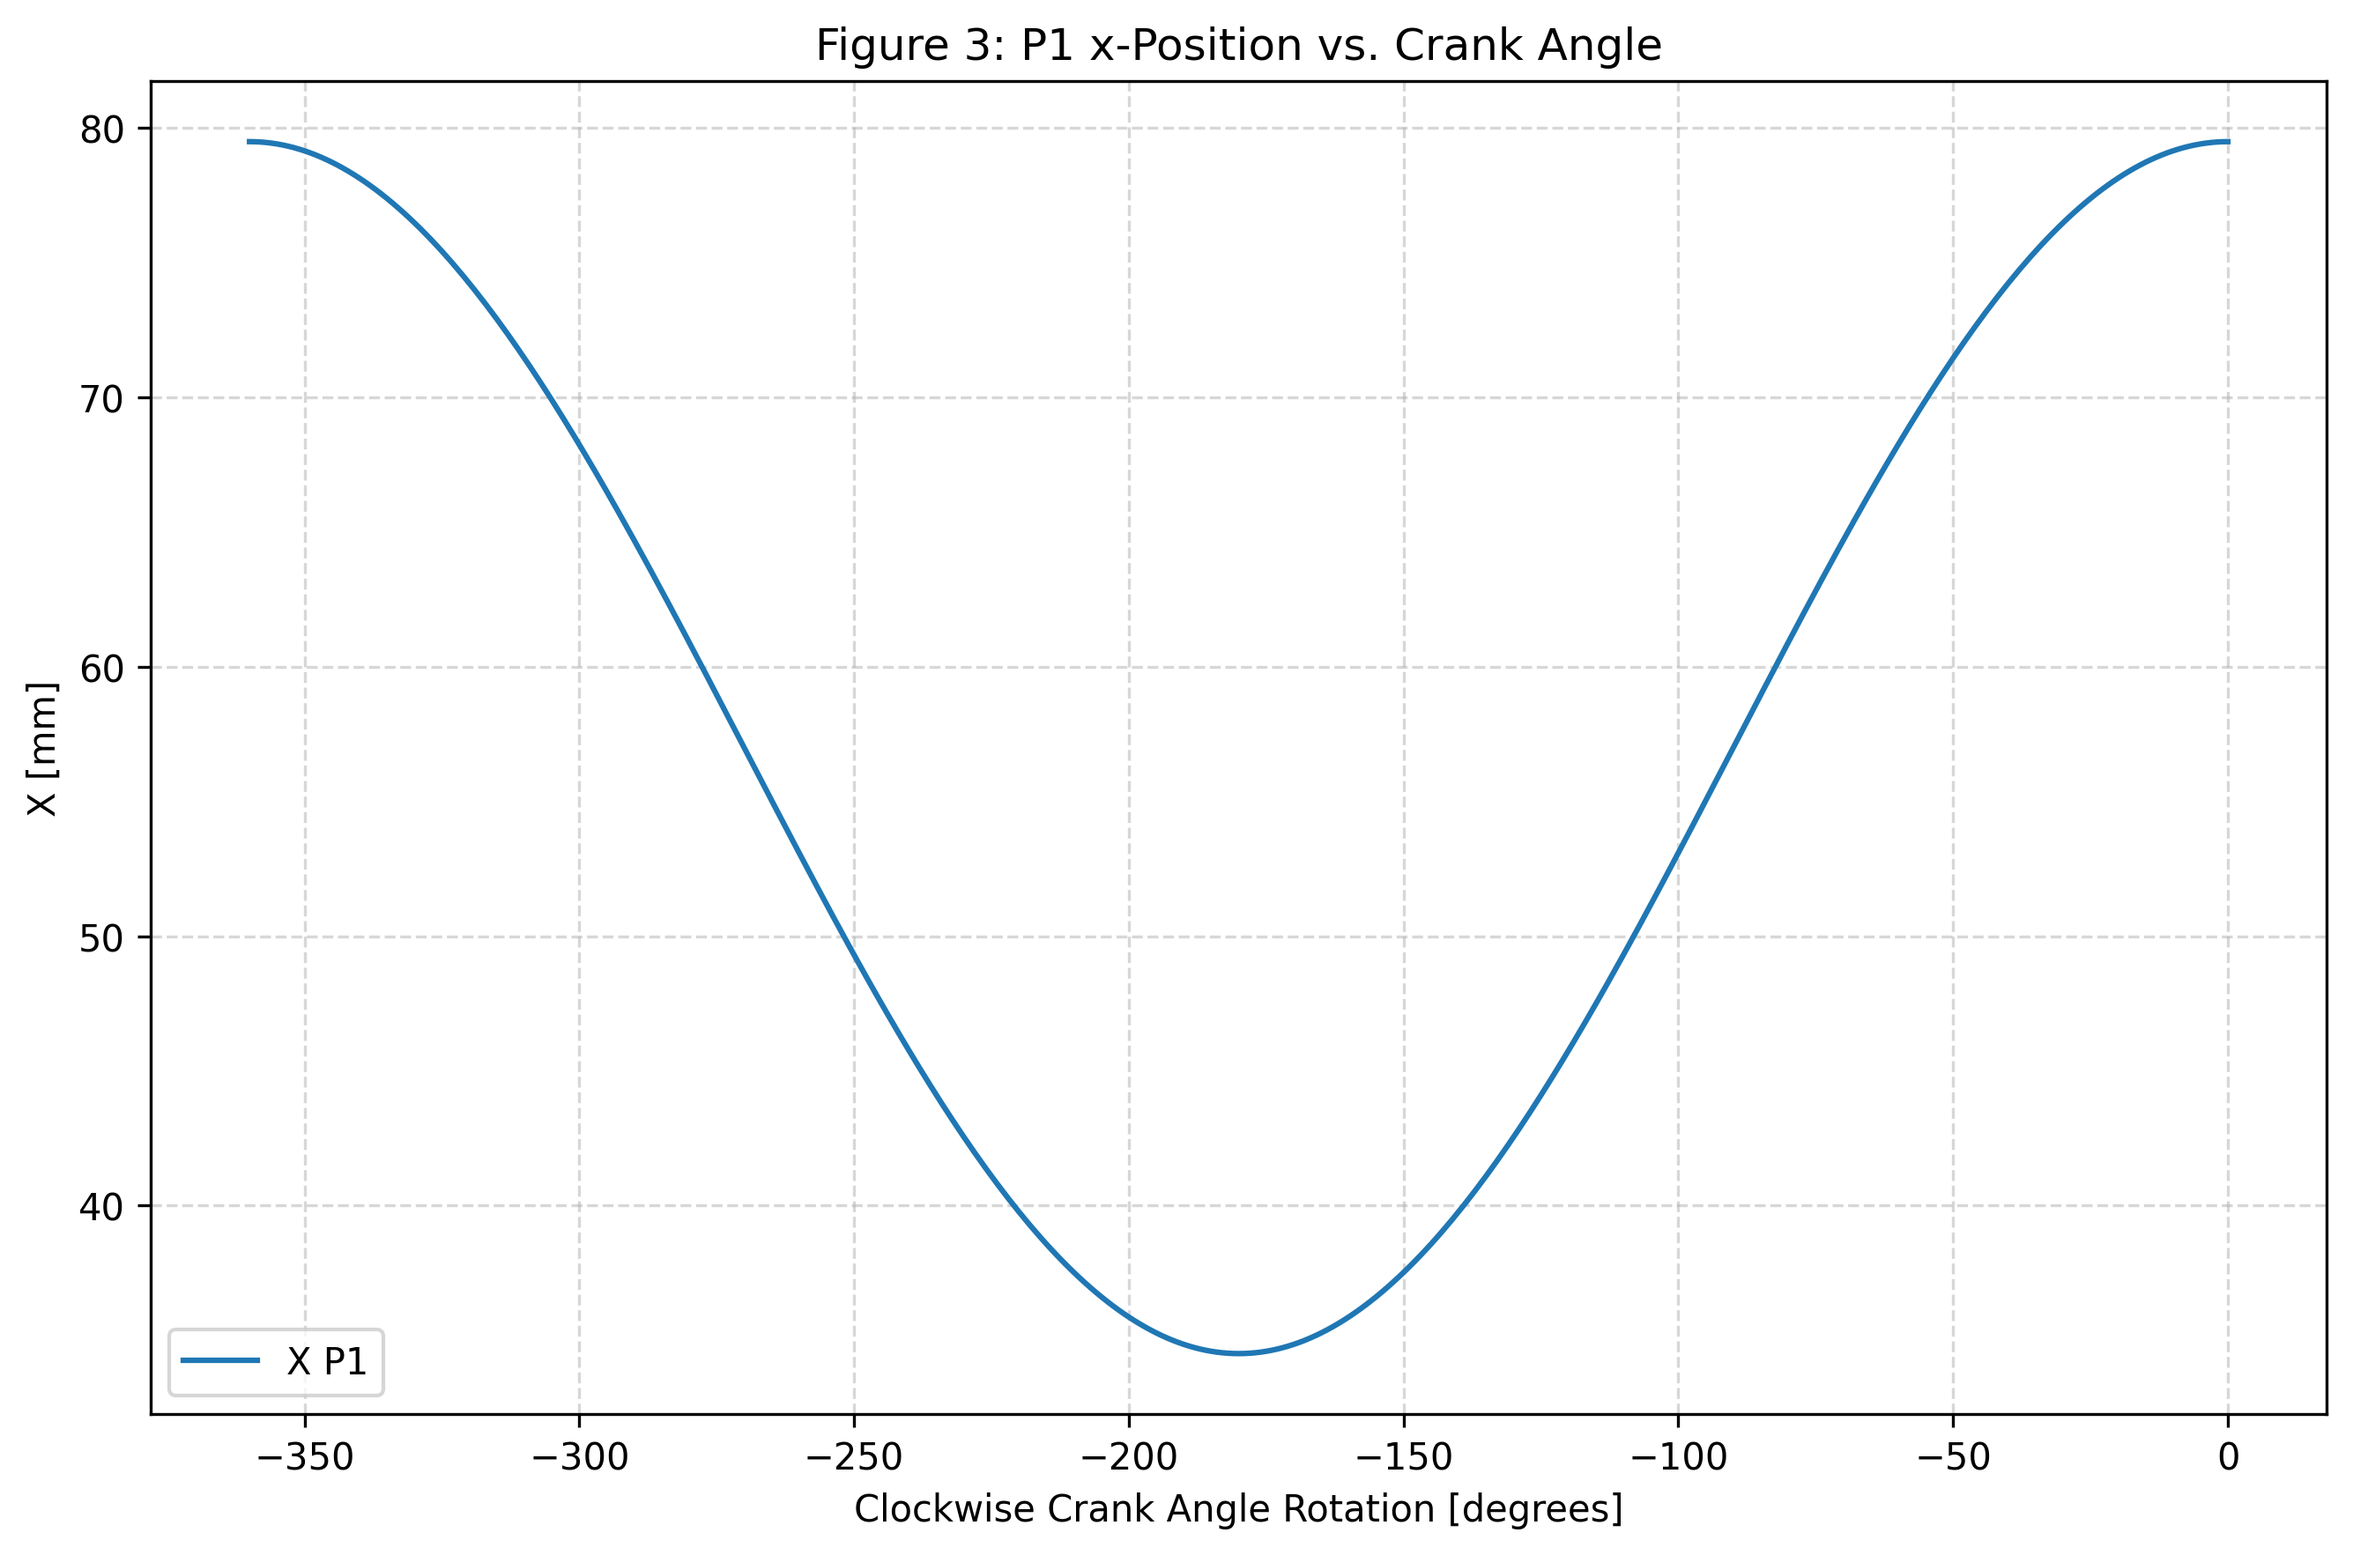
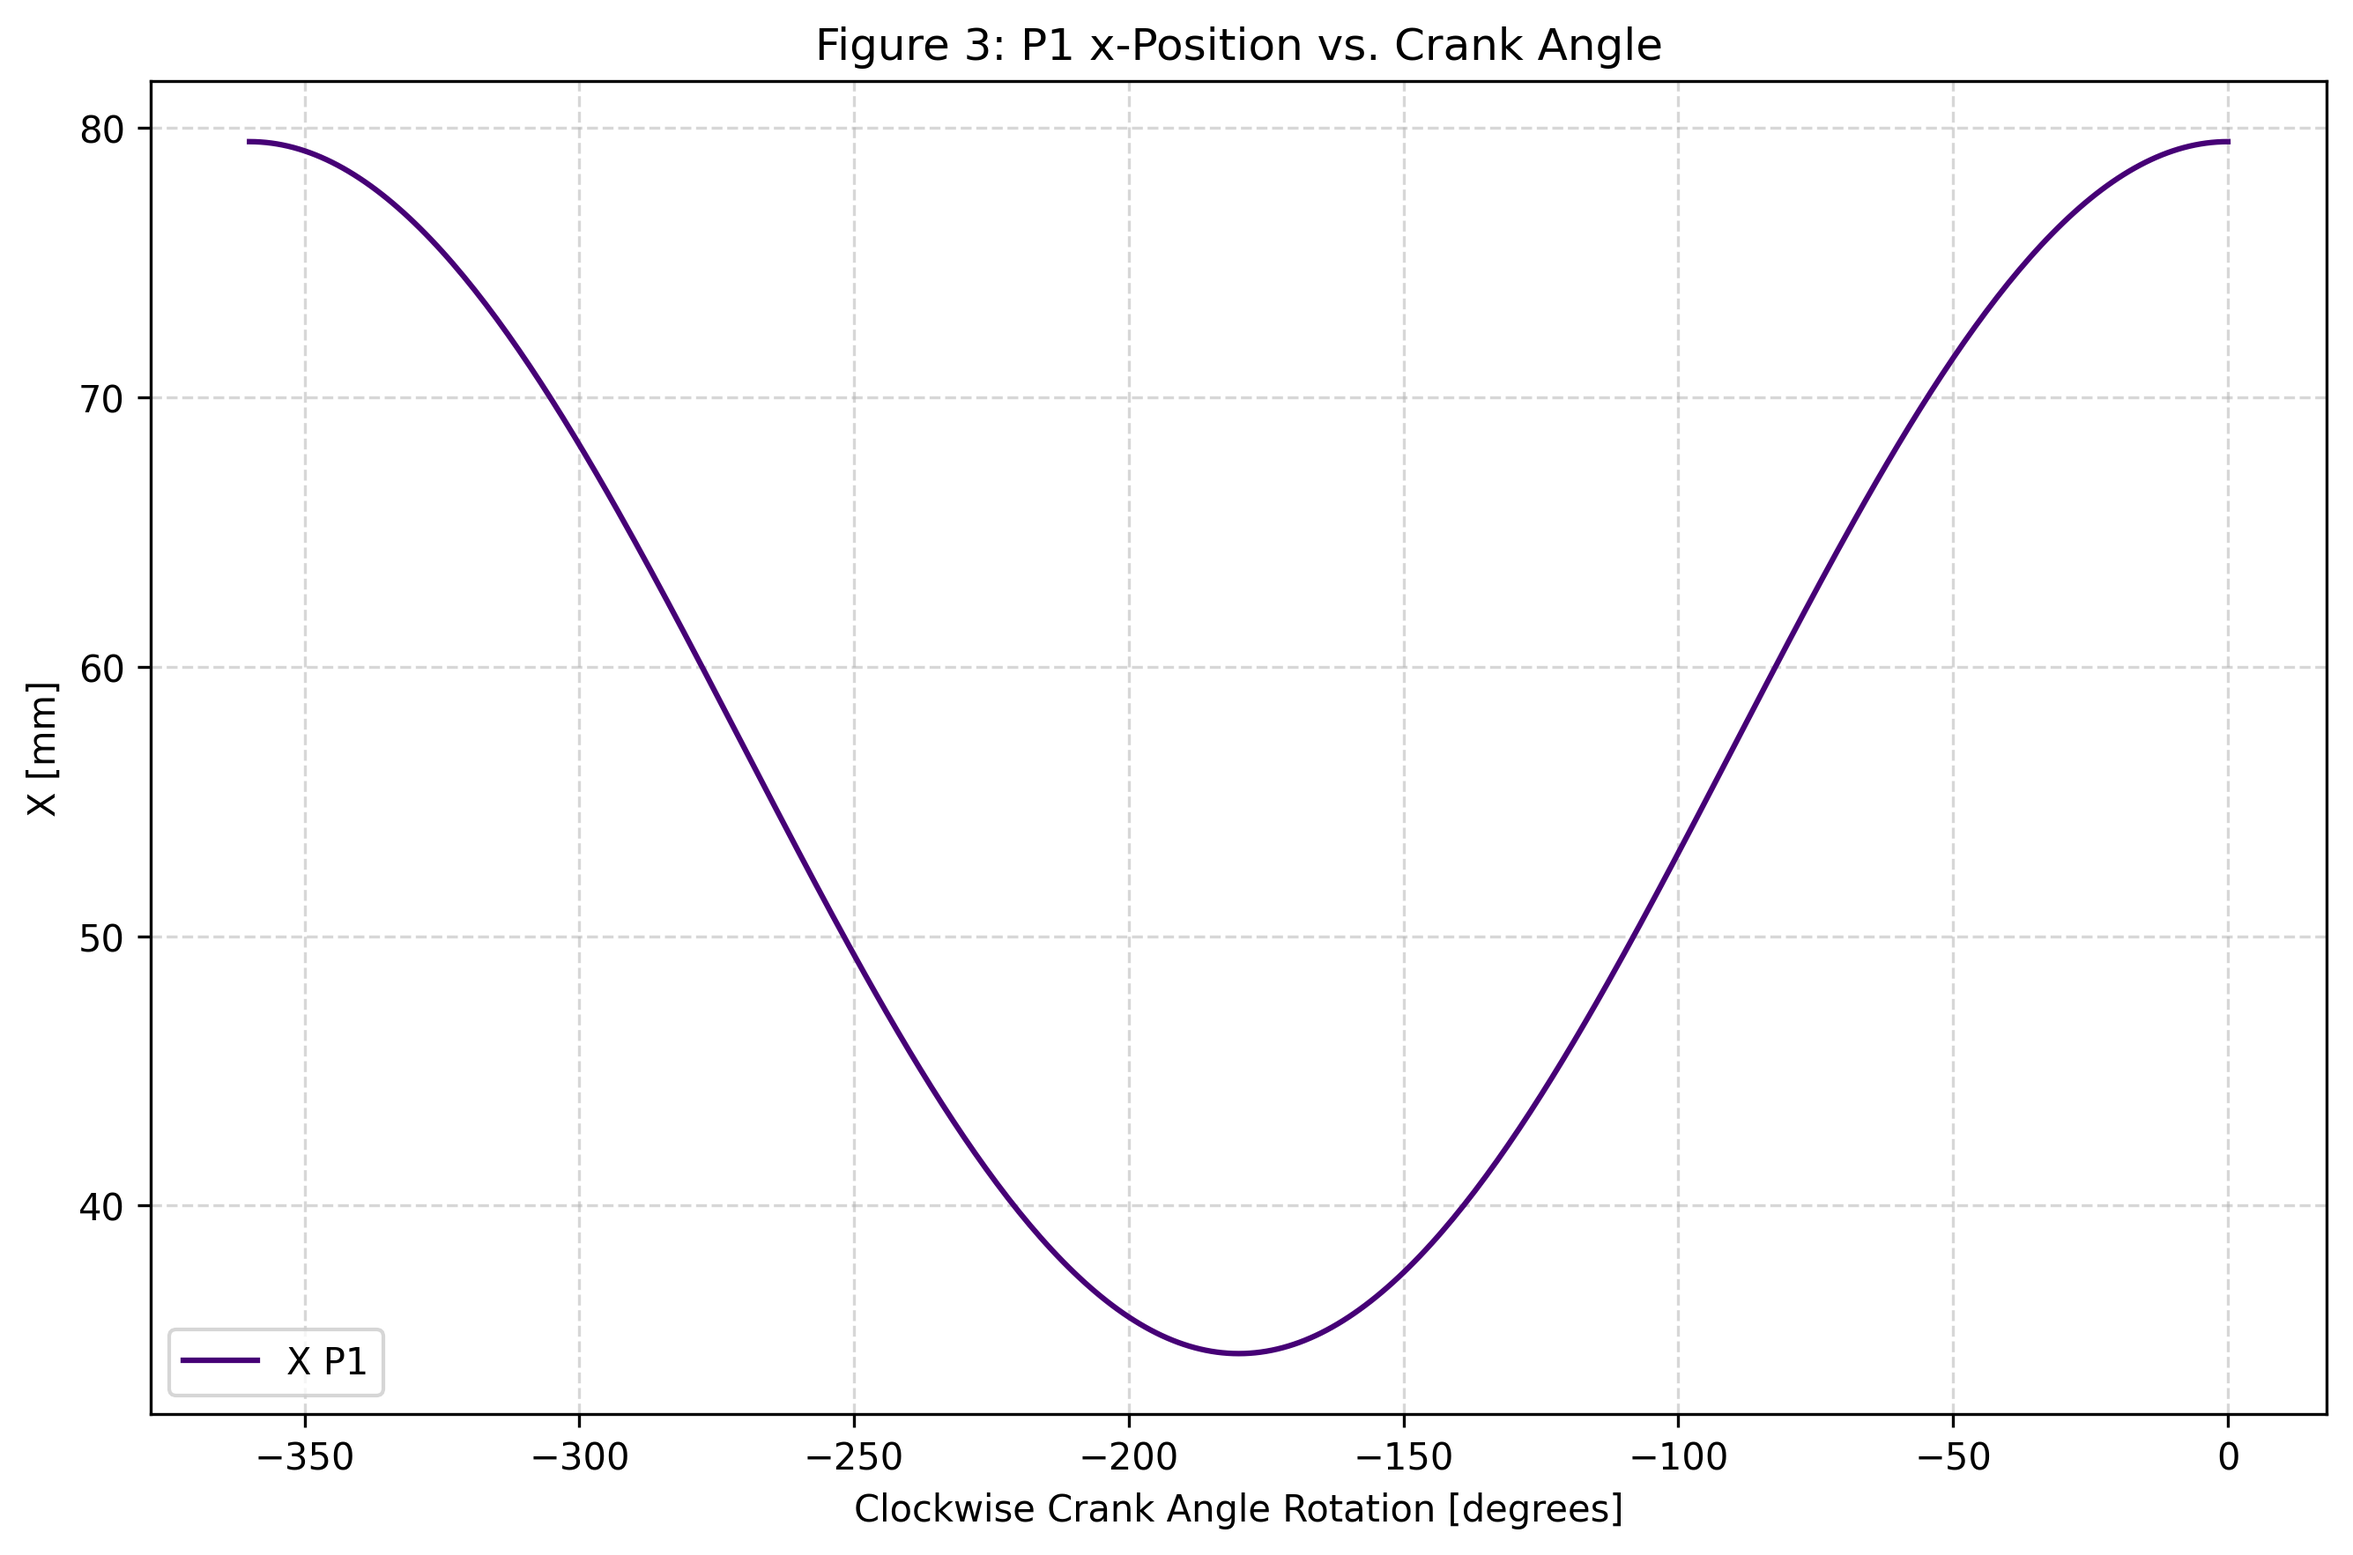
Updated point and link plot so that it can handle line style, offset, and line width

diff --git a/lib/_Plot.py b/lib/_Plot.py
@@ -23,6 +23,30 @@ import matplotlib.pyplot as pl
 # * VARIABLES *
 # ? ================================================================ ?
 
+# * Color Scheme *
+# Path Color
+PATH_COLOR = "#460076"  
+
+# Link Colors
+LINK_B_COLOR = "#E76F51"
+LINK_C_COLOR = "#C77DFF"
+LINK_D_COLOR = "#FFD166"
+LINK_E_COLOR = "#B8C0FF"
+LINK_F_COLOR = "#D16D9E"
+LINK_G_COLOR = "#7B6DCC"
+LINK_H_COLOR = "#7A8FB5"
+LINK_I_COLOR = "#BC6C25"
+LINK_J_COLOR = "#577590"
+LINK_K_COLOR = "#84A59D"
+LINK_M_COLOR = "#F4A261"
+LINK_N_COLOR = "#48CAE4"
+
+# Point Colors
+POINT_COLOR = "#000000"  
+
+# * Link N Line Style *
+LINK_N_LINE_STYLE = '--'  
+
 
 # * FUNCTION *
 # ? ================================================================ ?
@@ -51,7 +75,7 @@ def setup_figure() -> tuple[pl.figure, pl.axes]:
     return figure, axes
 
 
-def draw_point(axes : pl.axes, point : np.ndarray, label : str) -> None:
+def draw_point(axes : pl.axes, point : np.ndarray, label : str, x_offset : float = 6.0, y_offset : float = 6.0) -> None:
     """
     Draw & Label a point on the given axes.
     
@@ -59,18 +83,22 @@ def draw_point(axes : pl.axes, point : np.ndarray, label : str) -> None:
         axes (pl.axes) : The Matplotlib axes to draw the point on.
         point (np.ndarray) : The (x, y) coordinates of the point to be drawn.
         label (str) : The label for the point to be displayed next to it on the plot.
+        x_offset (float) : The horizontal offset for the label text from the point. Default is 6.0 mm.
+        y_offset (float) : The vertical offset for the label text from the point. Default is 6.0 mm.
     
     Returns:
         None
     """
     # Draw the point
-    axes.plot(point[0], point[1], 'ko', zorder=5)  
+    axes.plot(point[0], point[1], 'o', color=POINT_COLOR, zorder=5)  
     
     # Label the point
-    axes.text(point[0], point[1], f" {label}", fontsize=10)
+    axes.annotate(label, xy=(point[0], point[1]), xytext=(x_offset, y_offset), textcoords='offset points', fontsize=10, 
+                  color=POINT_COLOR, bbox=dict(facecolor='white', edgecolor='none', alpha=0.7, pad=0.2))
 
 
-def draw_link(axes : pl.axes, point_1 : np.ndarray, point_2 : np.ndarray, label : str, color : str) -> None:
+def draw_link(axes : pl.axes, point_1 : np.ndarray, point_2 : np.ndarray, label : str, 
+              color : str, linestyle : str = '-', linewidth : float = 2.0) -> None:
     """
     Draw a link between two points on the given axes.
     
@@ -80,12 +108,15 @@ def draw_link(axes : pl.axes, point_1 : np.ndarray, point_2 : np.ndarray, label 
         point_2 (np.ndarray) : The (x, y) coordinates of the second point.
         label (str) : The label for the link to be displayed next to it on the plot.
         color (str) : The color to use for the link (e.g., 'blue', 'red', etc.).
+        line_style (str) : The style of the line (e.g., '-', '--', '-.', ':'). Default is '-'.
+        linewidth (float) : The width of the line. Default is 2.0.
     
     Returns:
         None
     """
     # Plot the link as a line between the two points
-    axes.plot([point_1[0], point_2[0]], [point_1[1], point_2[1]], marker='o', color=color, label=label)
+    axes.plot([point_1[0], point_2[0]], [point_1[1], point_2[1]], marker='o', color=color, 
+              label=label, linestyle=linestyle, linewidth=linewidth)
 
 
 def set_axes_limits(axes : pl.axes, points : list[np.ndarray], padding : float = 10.0) -> None:
@@ -132,13 +163,13 @@ def plot_ground_link(O2 : np.ndarray, O4 : np.ndarray, P1 : np.ndarray) -> pl.fi
     ground_axes.set_ylabel("Y [mm]")
     
     # Draw Links
-    draw_link(ground_axes, O2, O4, "Link N", color = "blue")
-    draw_link(ground_axes, O4, P1, "Link M", color = "orange")
+    draw_link(ground_axes, O2, O4, "Link N", LINK_N_COLOR,  linestyle=LINK_N_LINE_STYLE)
+    draw_link(ground_axes, O4, P1, "Link M", LINK_M_COLOR)
 
     # Draw Points
-    draw_point(ground_axes, O2, "02")
-    draw_point(ground_axes, O4, "04")
-    draw_point(ground_axes, P1, "P1")
+    draw_point(ground_axes, O2, "02", x_offset=-8.0, y_offset=-16.0)
+    draw_point(ground_axes, O4, "04", x_offset=-4.0, y_offset=-16.0)
+    draw_point(ground_axes, P1, "P1", x_offset=-4.0, y_offset=-16.0)
     
     # Set axes limits based on point locations
     set_axes_limits(ground_axes, [O2, O4, P1], padding=15.0)
@@ -178,11 +209,11 @@ def plot_p1_position(O2 : np.ndarray, O4 : np.ndarray, array_P1 : np.ndarray) ->
     draw_point(p1_position_axes, O4, "04")
     
     # Draw Crank Path
-    p1_position_axes.plot(array_P1[:, 0], array_P1[:, 1], label="Path P1", color="purple")
+    p1_position_axes.plot(array_P1[:, 0], array_P1[:, 1], label="Path P1", color=PATH_COLOR)
     
     # Draw starting crank position
-    draw_link(p1_position_axes, O2, O4, "Link N", color = "cyan")
-    draw_link(p1_position_axes, O4, array_P1[0], "Link M", color = "orange")
+    draw_link(p1_position_axes, O2, O4, "Link N", LINK_N_COLOR, LINK_N_LINE_STYLE)
+    draw_link(p1_position_axes, O4, array_P1[0], "Link M", LINK_M_COLOR)
     
     # Set axes limits based on point locations
     set_axes_limits(p1_position_axes, [O2, O4, *array_P1], padding=15.0)
@@ -217,7 +248,7 @@ def plot_p1_x_figure(theta_m : np.ndarray, array_P1 : np.ndarray) -> pl.figure:
     p1_x_axes.set_ylabel("X [mm]")
     
     # Plot X-coordinate of P1
-    p1_x_axes.plot(theta_m, array_P1[:, 0], label="X P1")
+    p1_x_axes.plot(theta_m, array_P1[:, 0], label="X P1", color=PATH_COLOR)
     
     # Create Legend
     p1_x_axes.legend(loc = 'best')
@@ -251,7 +282,7 @@ def plot_p1_y_figure(theta_m : np.ndarray, array_P1 : np.ndarray) -> pl.figure:
     p1_y_axes.set_ylabel("Y [mm]")
     
     # Plot Y-coordinate of P1
-    p1_y_axes.plot(theta_m, array_P1[:, 1], label="Y P1")
+    p1_y_axes.plot(theta_m, array_P1[:, 1], label="Y P1", color=PATH_COLOR)
     
     # Create Legend & Layout
     p1_y_axes.legend(loc = 'best')
@@ -285,16 +316,16 @@ def plot_nm_bj_figure(O2 : np.ndarray, O4 : np.ndarray, P1 : np.ndarray, P2 : np
     nm_bj_axes.set_ylabel("Y [mm]")
     
     # Draw Links
-    draw_link(nm_bj_axes, O2, O4, "Link N", color = "blue")
-    draw_link(nm_bj_axes, O4, P1, "Link M", color = "orange")
-    draw_link(nm_bj_axes, O2, P2, "Link B", color = "green")
-    draw_link(nm_bj_axes, P1, P2, "Link J", color = "red")
+    draw_link(nm_bj_axes, O2, O4, "Link N", color = LINK_N_COLOR, linestyle=LINK_N_LINE_STYLE)
+    draw_link(nm_bj_axes, O4, P1, "Link M", color = LINK_M_COLOR)
+    draw_link(nm_bj_axes, O2, P2, "Link B", color = LINK_B_COLOR)
+    draw_link(nm_bj_axes, P1, P2, "Link J", color = LINK_J_COLOR)
     
     # Draw Points
-    draw_point(nm_bj_axes, O2, "02")
-    draw_point(nm_bj_axes, O4, "04")
-    draw_point(nm_bj_axes, P1, "P1")
-    draw_point(nm_bj_axes, P2, "P2")
+    draw_point(nm_bj_axes, O2, "02", x_offset=-8.0, y_offset=-16.0)
+    draw_point(nm_bj_axes, O4, "04", x_offset=-4.0, y_offset=-16.0)
+    draw_point(nm_bj_axes, P1, "P1", x_offset=-4.0, y_offset=-16.0)
+    draw_point(nm_bj_axes, P2, "P2", x_offset=-4.0, y_offset=8.0)
     
     # Set axes limits based on point locations
     set_axes_limits(nm_bj_axes, [O2, O4, P1, P2], padding=15.0)
@@ -331,20 +362,20 @@ def plot_p2_position(O2 : np.ndarray, O4 : np.ndarray, array_P1 : np.ndarray, ar
     p2_position_axes.set_ylabel("Y [mm]")
     
     # Draw Path of P2
-    p2_position_axes.plot(array_P2[:, 0], array_P2[:, 1], label="Path P2", color="purple")
+    p2_position_axes.plot(array_P2[:, 0], array_P2[:, 1], label="Path P2", color=PATH_COLOR)
     
     # Draw starting crank position
-    draw_link(p2_position_axes, O2, O4, "Link N", color = "cyan")
-    draw_link(p2_position_axes, O4, array_P1[0], "Link M", color = "orange")
-    draw_link(p2_position_axes, array_P1[0], array_P2[0], "Link J", color = "magenta")
-    draw_link(p2_position_axes, O2, array_P2[0], "Link B", color = "green")
+    draw_link(p2_position_axes, O2, O4, "Link N", color = LINK_N_COLOR,  linestyle=LINK_N_LINE_STYLE)
+    draw_link(p2_position_axes, O4, array_P1[0], "Link M", color = LINK_M_COLOR)
+    draw_link(p2_position_axes, array_P1[0], array_P2[0], "Link J", color = LINK_J_COLOR)
+    draw_link(p2_position_axes, O2, array_P2[0], "Link B", color = LINK_B_COLOR)
 
     
     # Draw ground point and crank center
-    draw_point(p2_position_axes, O2, "02")
-    draw_point(p2_position_axes, O4, "04")
-    draw_point(p2_position_axes, array_P1[0], "P1")
-    draw_point(p2_position_axes, array_P2[0], "P2")
+    draw_point(p2_position_axes, O2, "02", x_offset=-8.0, y_offset=-16.0)
+    draw_point(p2_position_axes, O4, "04", x_offset=-4.0, y_offset=-16.0)
+    draw_point(p2_position_axes, array_P1[0], "P1", x_offset=-4.0, y_offset=-16.0)
+    draw_point(p2_position_axes, array_P2[0], "P2", x_offset=-4.0, y_offset=8.0)
     
     # Set axes limits based on point locations
     set_axes_limits(p2_position_axes, [O2, O4, *array_P1, *array_P2], padding=15.0)
@@ -379,7 +410,7 @@ def plot_p2_x_figure(theta_m : np.ndarray, array_P2 : np.ndarray) -> pl.figure:
     p2_x_axes.set_ylabel("X [mm]")
     
     # Plot X-coordinate of P2
-    p2_x_axes.plot(theta_m, array_P2[:, 0], label="X P2")
+    p2_x_axes.plot(theta_m, array_P2[:, 0], label="X P2", color=PATH_COLOR)
     
     # Create Legend & Layout
     p2_x_axes.legend(loc = 'best')
@@ -411,7 +442,7 @@ def plot_p2_y_figure(theta_m : np.ndarray, array_P2 : np.ndarray) -> pl.figure:
     p2_y_axes.set_ylabel("Y [mm]")
     
     # Plot Y-coordinate of P2
-    p2_y_axes.plot(theta_m, array_P2[:, 1], label="Y P2")
+    p2_y_axes.plot(theta_m, array_P2[:, 1], label="Y P2", color=PATH_COLOR)
     
     # Create Legend & Layout
     p2_y_axes.legend(loc = 'best')
